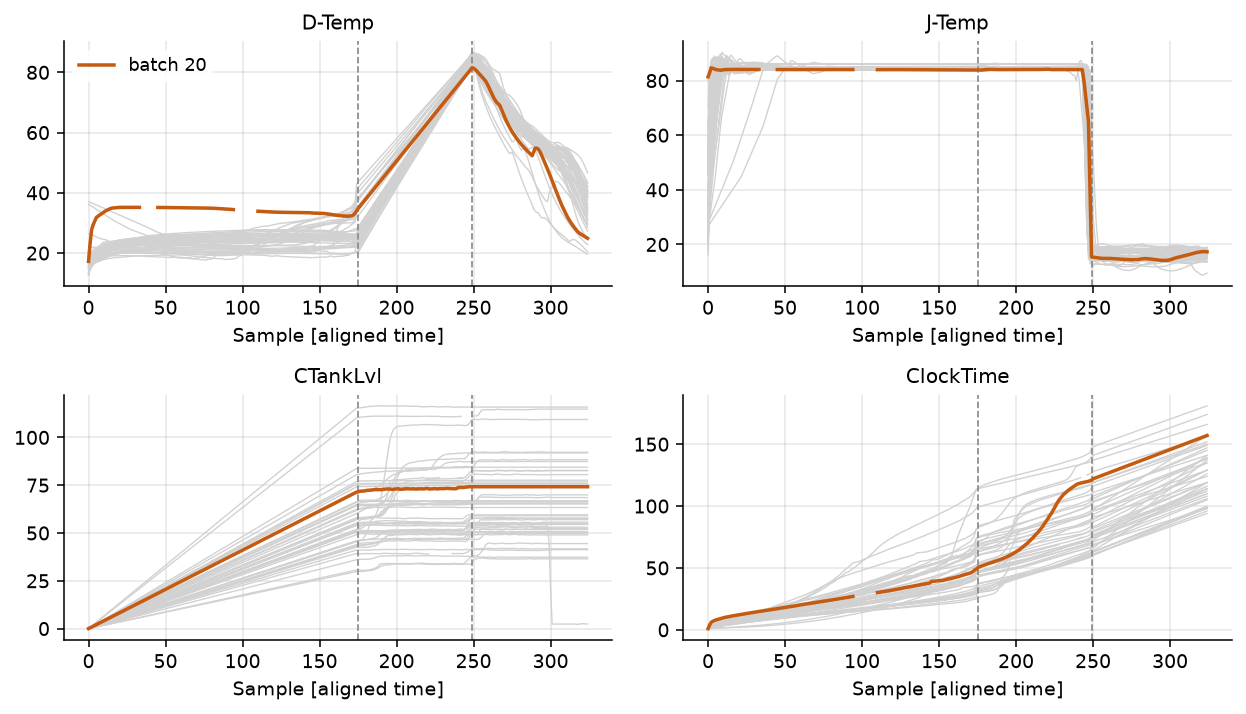
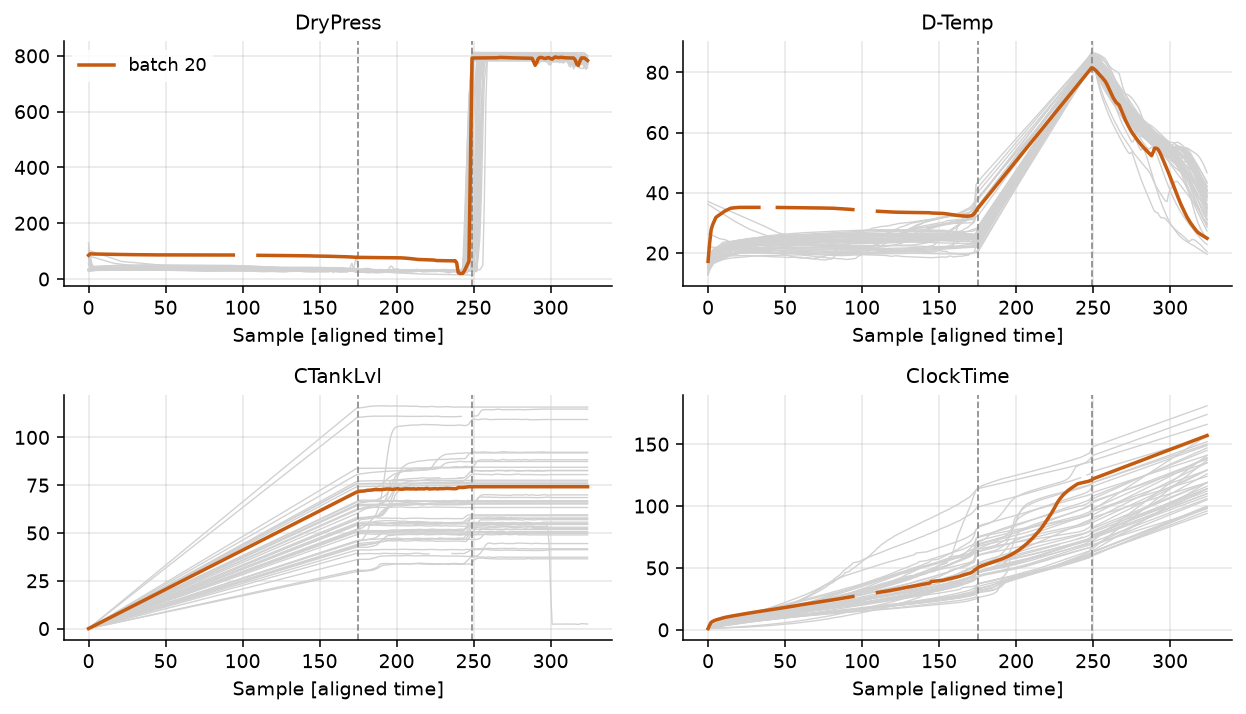
Put the dryer pressure in the batch 20 overlay, in place of the jacket temperature
The panel set did not match what the page says about batch 20. Its squared SPE
splits as DryPress 49%, D-Temp 9.5%, then a long tail; J-Temp carries 5.8% and
shows nothing in the raw record, averaging 84.0 over the first phase against the
other batches' 83.7. It occupied a panel while the tag carrying half the residual
had none, and the page's own code block plots DryPress for this batch.

DryPress now leads the four. Batch 20 runs at about 85 through the whole
solvent-collection phase where the others sit between 0 and 40, above their
average at every sample it was recorded and above every one of them at 94% of
those samples, until they all step to 800 at the phase end.

CTankLvl stays despite a small share: it is what defines the solvent-collection
phase, so it orients the reader for the other three panels.

Claude-Session: https://claude.ai/code/session_01LXthGpHLQFfGubBiKFtGAE

diff --git a/batch/batch-case-fmc-figures.py b/batch/batch-case-fmc-figures.py
@@ -145,7 +145,10 @@ def main(out_dir: pathlib.Path) -> None:
     fig.tight_layout()
     save(fig, out_dir, "batch-case-fmc-alignment")
 
-    fig = overlay_panels(X, ["D-Temp", "J-Temp", "CTankLvl", "ClockTime"], {OPERATING_OUTLIER: ORANGE}, vlines=PHASE_ENDS)
+    # DryPress leads: it carries 49% of batch 20's squared SPE and its first-phase mean is 85 against
+    # an average of 37. J-Temp was here and earned nothing: 6% of the residual, and batch 20 averages
+    # 84.0 there against the others' 83.7.
+    fig = overlay_panels(X, ["DryPress", "D-Temp", "CTankLvl", "ClockTime"], {OPERATING_OUTLIER: ORANGE}, vlines=PHASE_ENDS)
     save(fig, out_dir, "batch-case-fmc-raw-trajectories")
 
     y_scaled = MCUVScaler().fit_transform(Y)
